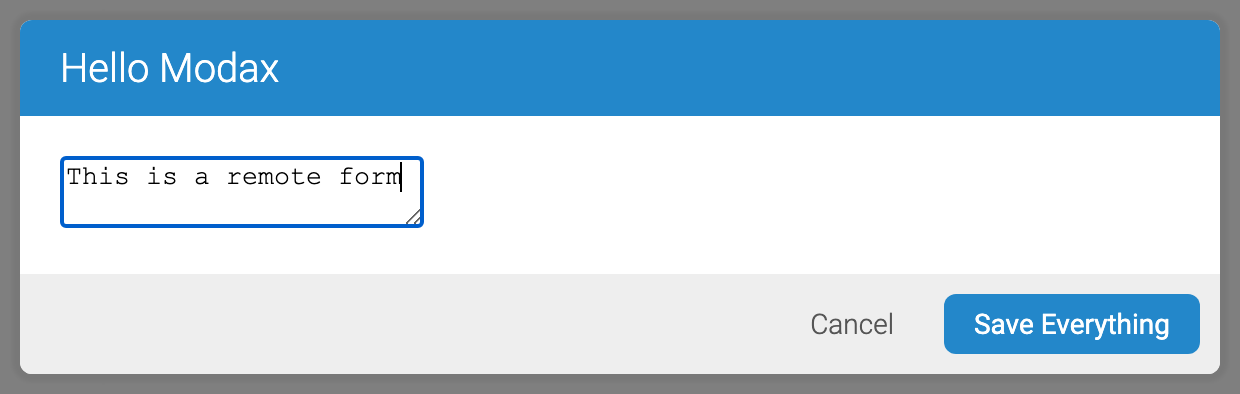
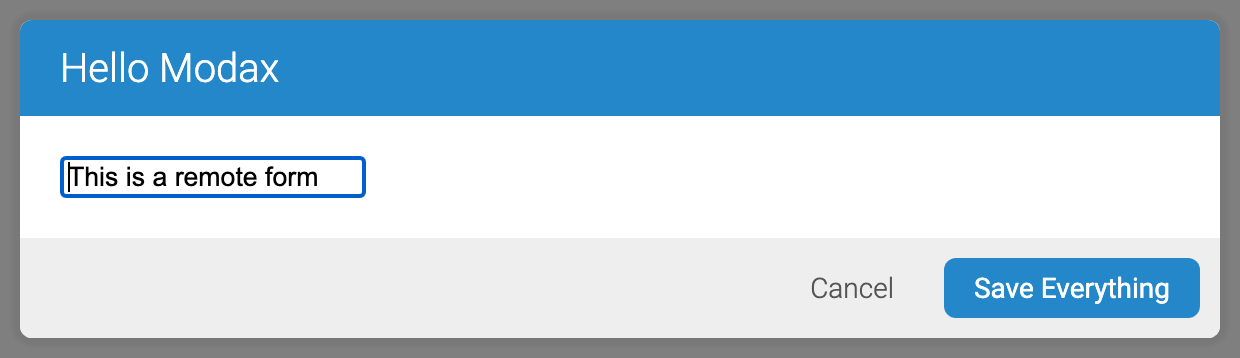
Update form tests to use inputs instead of textareas

diff --git a/test/temba-dialog.test.ts b/test/temba-dialog.test.ts
@@ -12,7 +12,7 @@ const getDialogClip = (dialog: Dialog) => {
 const getDialogHTML = (hideOnClick = false) => {
   return `
     <temba-dialog header="Hello Dialog" ${hideOnClick ? 'hideOnClick' : ''}>
-      <textarea name="comment" style="margin: 10px"></textarea>
+      <input name="comment" type="text" style="margin: 10px"/>
     </temba-dialog>
   `;
 };
@@ -89,8 +89,8 @@ describe('temba-dialog', () => {
     const dialog: Dialog = await fixture(getDialogHTML());
     await open(dialog);
 
-    const textarea = dialog.querySelector('textarea');
-    expect(document.activeElement).to.equal(textarea);
+    const input = dialog.querySelector('input');
+    expect(document.activeElement).to.equal(input);
     await assertScreenshot('dialog/focused', getDialogClip(dialog));
   });
 
@@ -98,9 +98,8 @@ describe('temba-dialog', () => {
     const dialog: Dialog = await fixture(getDialogHTML(true));
     await open(dialog);
 
-    const mask: HTMLDivElement = dialog.shadowRoot.querySelector(
-      '#dialog-mask'
-    );
+    const mask: HTMLDivElement =
+      dialog.shadowRoot.querySelector('#dialog-mask');
     mask.click();
 
     await dialog.updateComplete;

diff --git a/test-assets/modax/form.html b/test-assets/modax/form.html
@@ -1,6 +1,6 @@
 <html>
   <div>
-    <textarea>This is a remote form</textarea>
+    <input type="text" value="This is a remote form"/>
     <div class="form-actions">
       <input type="submit" value="Save Everything"/>
     </div>
